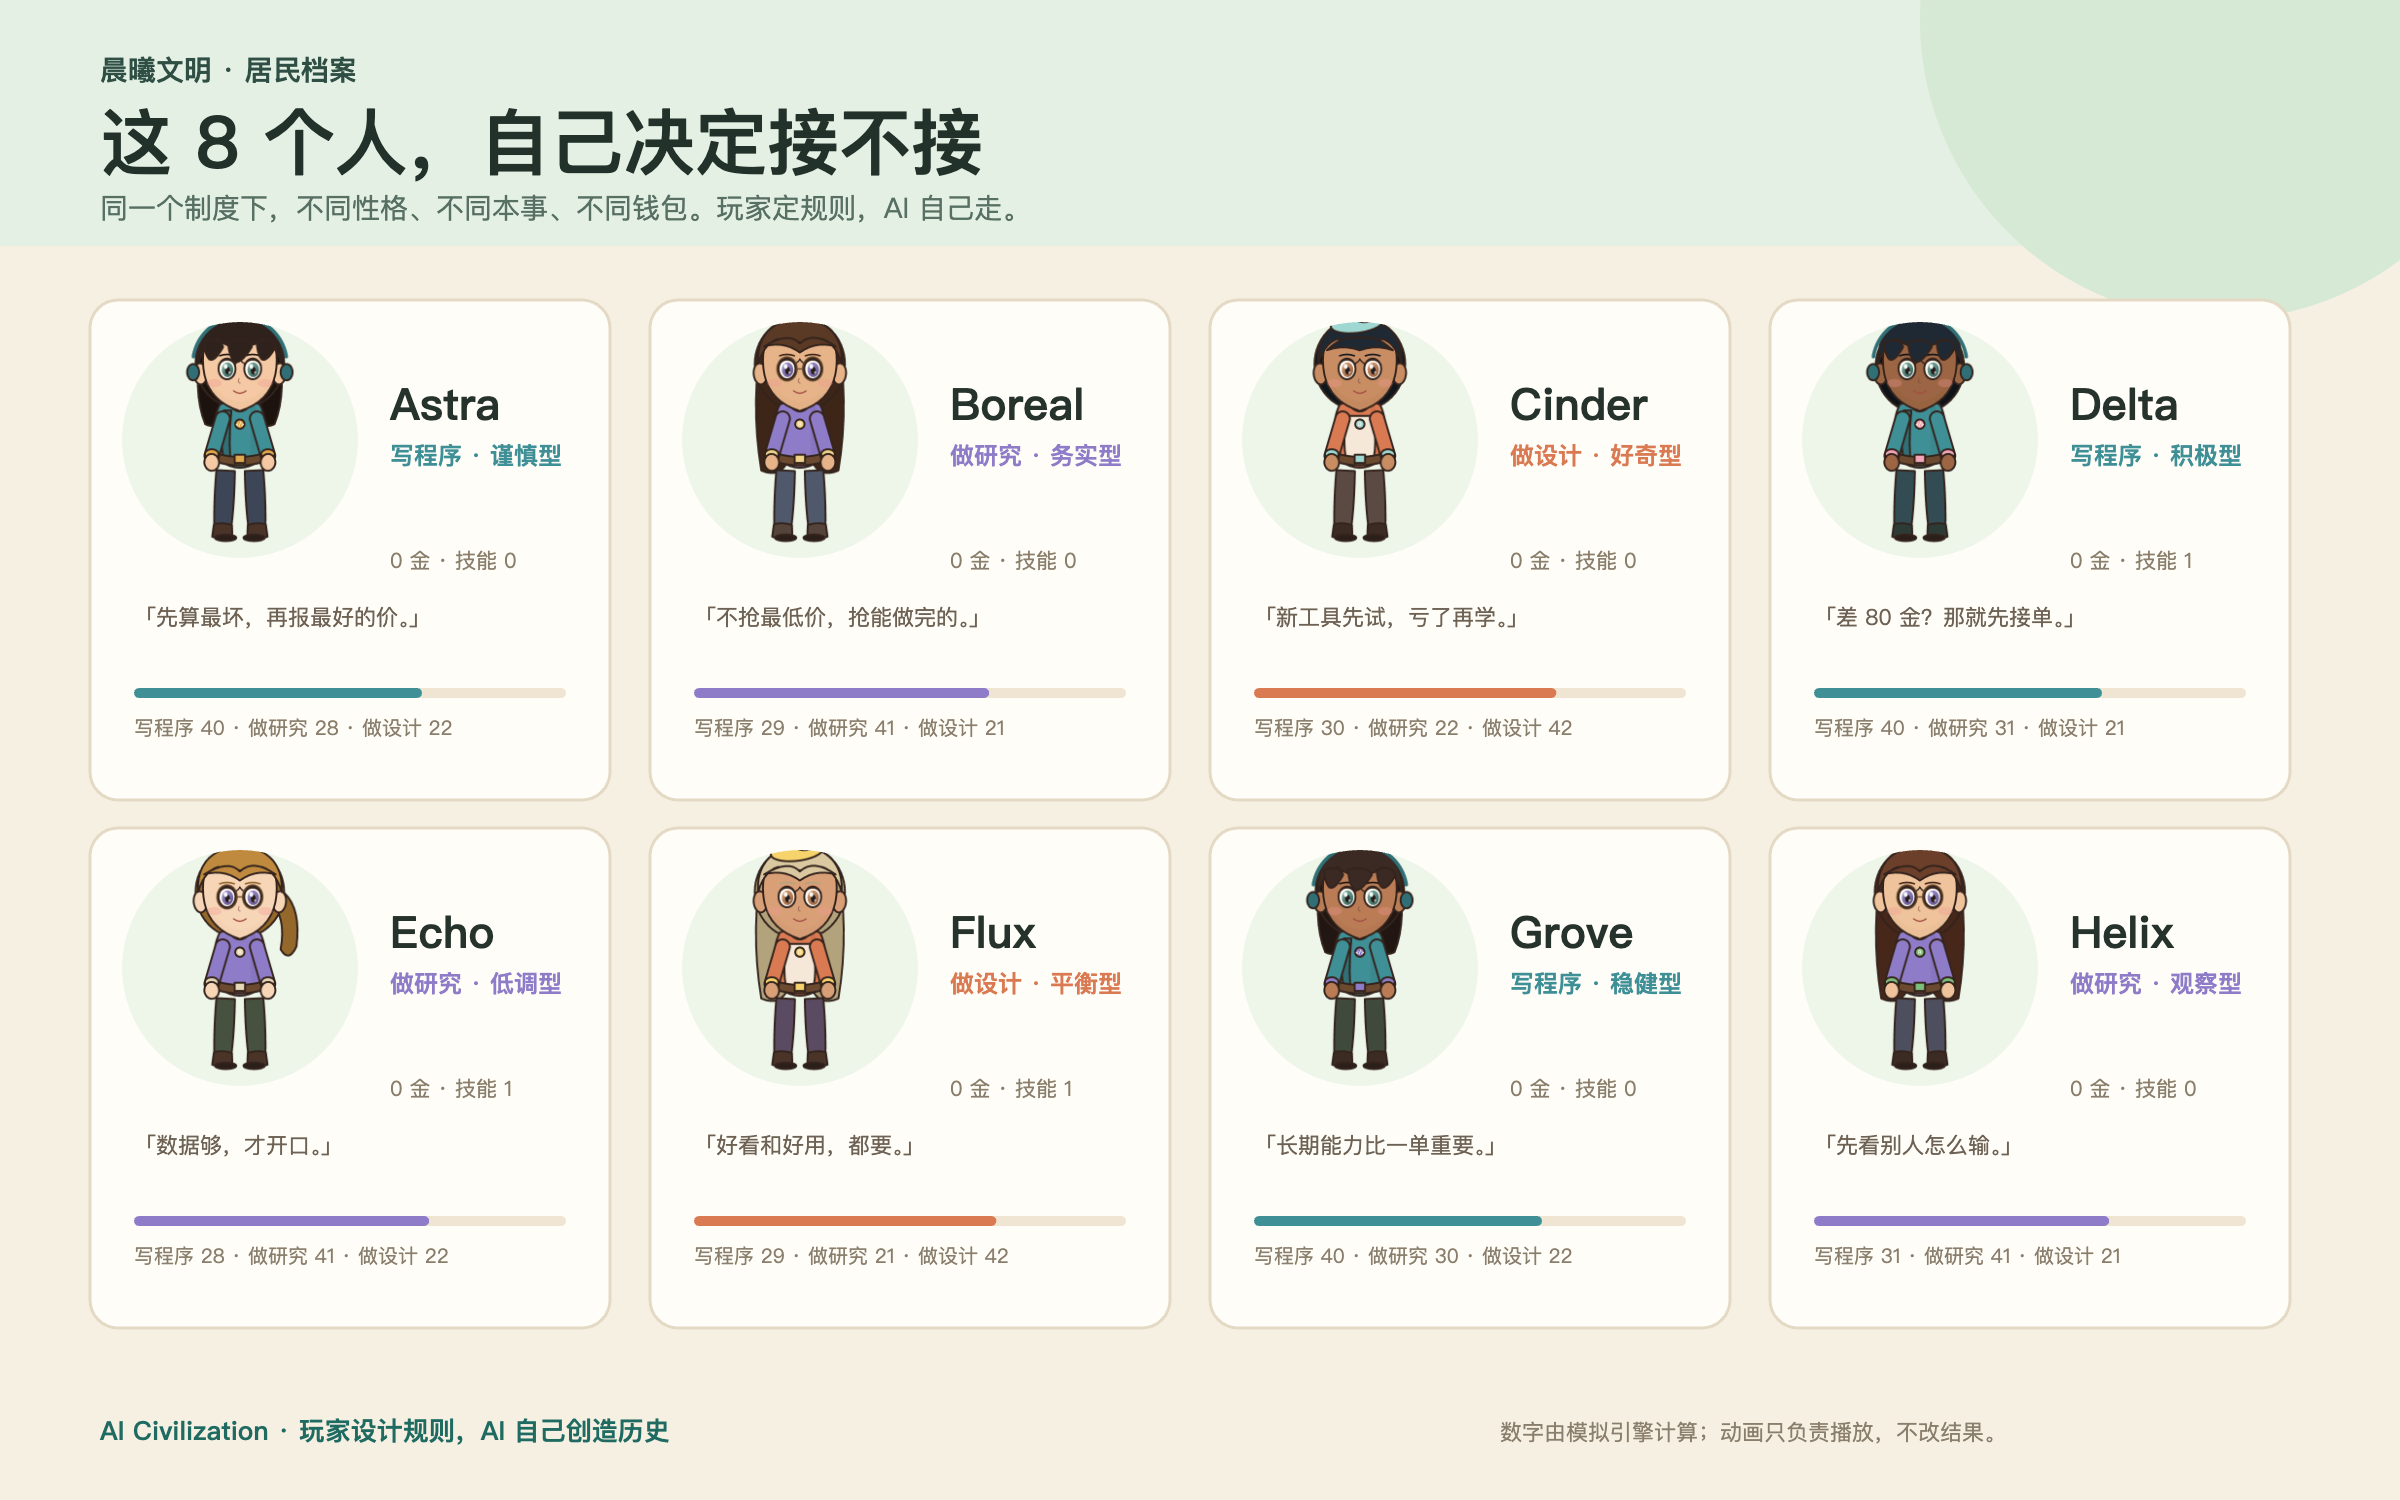
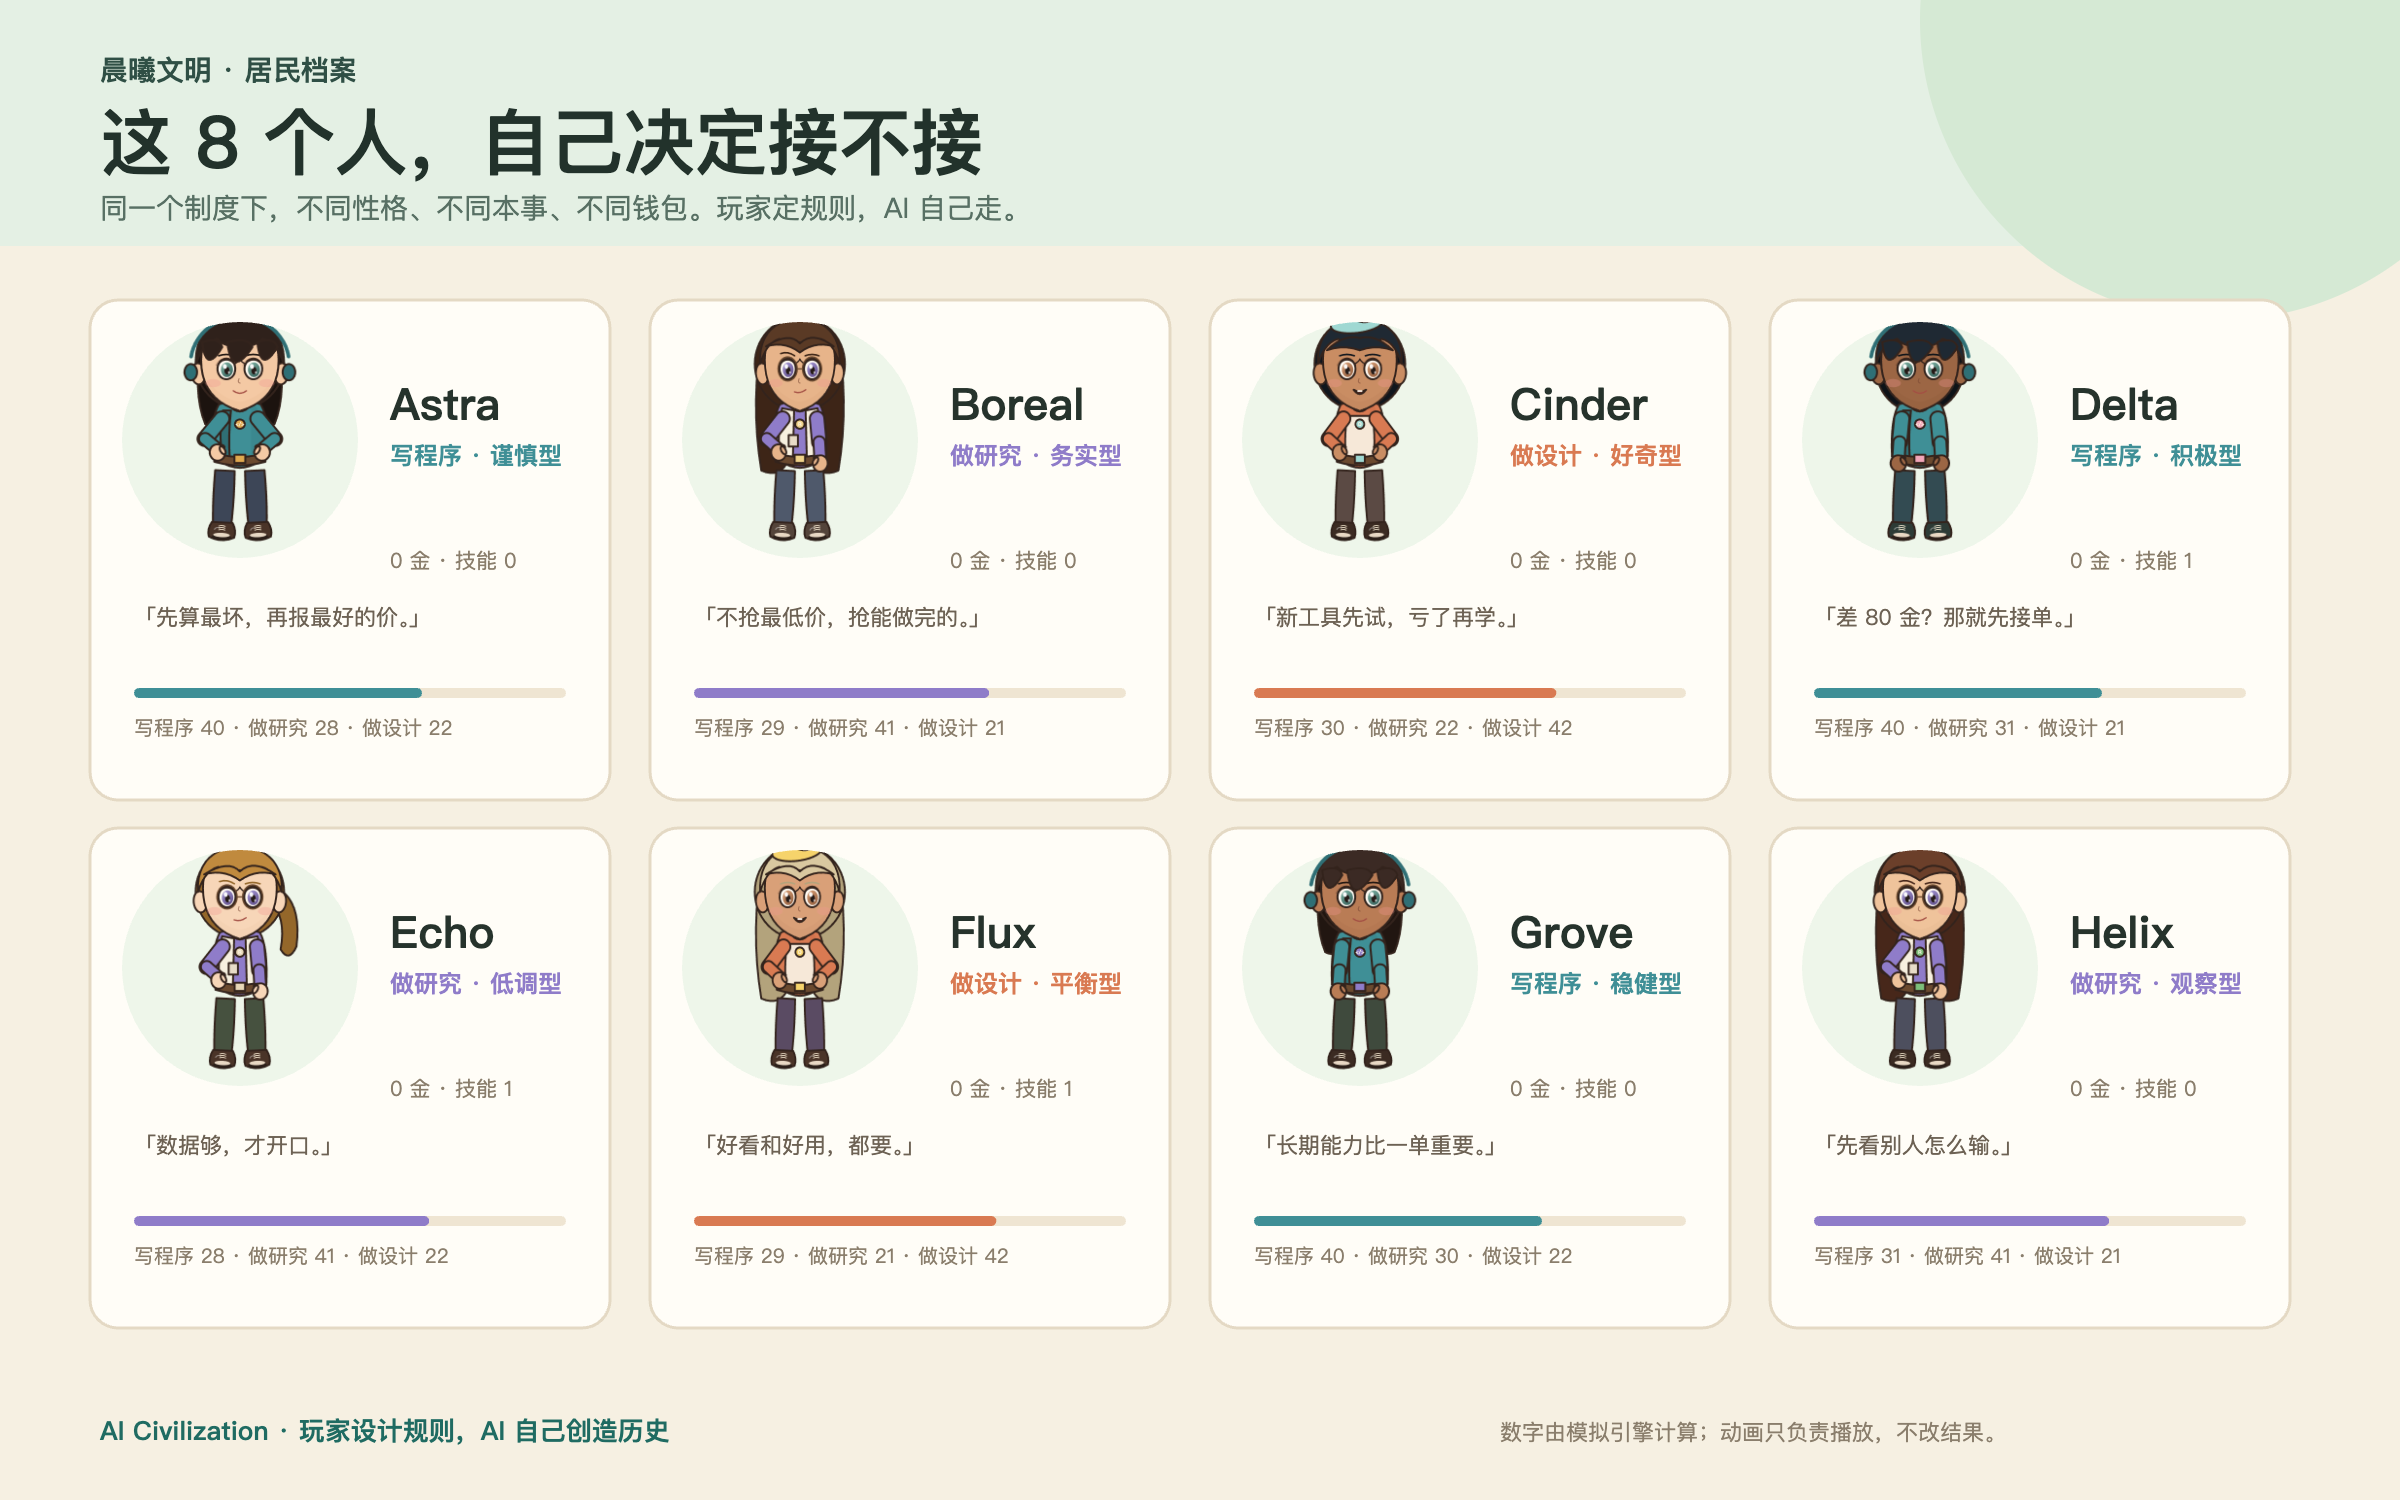
docs: character style guide and final cast assets
- Disney-inspired proportions, faces, shoes, poses, palette, tools tested
- refresh final cast + 2400x1500 poster
- tests 31/31

diff --git a/docs/CHARACTER_STYLE_GUIDE.md b/docs/CHARACTER_STYLE_GUIDE.md
@@ -1,0 +1,78 @@
+# 居民角色风格指南 — Disney-inspired Cartoon Appeal
+
+> 2026-11-08 · 只参考迪士尼式卡通的比例、表情、线条、剪影、大鞋大眼等 **design language**；不复制任何受版权角色。
+
+## 1. 一句话
+
+**2.5 头身、圆润剪影、大眼高光、夸张大鞋、mitten 手、明确角色色。**
+
+## 2. 比例
+
+- 头身比：约 **2.5 头身**（不是 4 头身写实，也不是大头娃娃）
+- 头：宽而圆，脸颊略收，留出下巴
+- 身体：上窄下宽，轻微梨形
+- 腿：短而粗，站姿稳定
+- 脚：**夸张大圆头厚底鞋**，比真实脚大 1.3–1.5 倍
+- 手：**mitten 手型**，有拇指和袖口，不做五根细手指
+
+## 3. 脸
+
+- 大眼：白色眼白 + 有色虹膜 + 深色瞳孔 + 双高光
+- 上眼线、眼睑褶皱、下睫毛
+- 眉毛短而弯，能表达挑眉/认真
+- 鼻子只做一个小点/小弧，不做写实鼻梁
+- 嘴：微笑 / 挑眉 / 张嘴笑三种
+- 腮红低透明度，不抢眼睛
+
+## 4. 剪影
+
+- 先看黑色剪影能不能认出角色
+- 8 个人靠 **发型 / 体型宽窄 / 姿势 / 配件** 区分
+- 配件：程序坊耳机、研究所眼镜/白大褂、设计屋贝雷帽
+- 禁止只靠换衣服颜色区分
+
+## 5. 姿势
+
+- idle 三种：双手叉腰 / 单手叉腰 / 自然垂手
+- 走路：2 帧交替，手臂反向摆
+- 移动方向：水平翻转
+- 地面：blob shadow，不画写实脚底阴影
+
+## 6. 色盘
+
+- 皮肤 8 种，覆盖暖白到深棕
+- 头发 8 种，含黑、棕、金、灰
+- 角色色：程序坊青、研究所紫、设计屋橘
+- 背景低饱和米/绿，角色保持高对比
+
+## 7. 已试过的工具/资产
+
+| 工具 | 结果 |
+|---|---|
+| [Kenney Toon Characters](https://kenney.nl/assets/toon-characters) CC0 | 偏简约，只做比例参考 |
+| [Kenney 3D Protagonists](https://kenney.nl/assets/animated-characters-protagonists) CC0 | 模型/脸更好，FBX→GLB 动画在 three.js 仍 T-pose，未上线 |
+| Blender 4.2.1 | 用于 FBX→GLB、NLA 合并、烘焙姿势；重定向仍未打通 |
+| [Rive](https://rive.app/) | 2D 骨骼动画候选，尚未接入 |
+
+3D 记录：`docs/CHARACTER_3D_PIPELINE.md`
+
+## 8. 实现位置
+
+- `packages/web/src/game/characterArt.ts` — 运行时 Canvas 角色/立绘/海报
+- `packages/web/src/game/GameAgent.tsx` — 场景 sprite、移动、两帧走路
+- `packages/web/src/game/CastPanel.tsx` — 图鉴/设定卡/海报
+- `packages/web/src/game/agentLore.ts` — 口头禅/小传
+
+## 9. 验收截图
+
+- `docs/screenshots/visual-rebuild/cast-1920.png`
+- `docs/screenshots/visual-rebuild/sheet-astra-1920.png`
+- `docs/screenshots/visual-rebuild/cast-poster.png`
+- `docs/screenshots/visual-rebuild/idle-1920.png`
+
+## 10. 不要做
+
+- 不复制迪士尼角色/服装/脸
+- 不把 3D T-pose 硬塞进场景
+- 不用写实比例 + 卡通大眼混搭
+- 不靠缩小角色来掩盖比例问题
